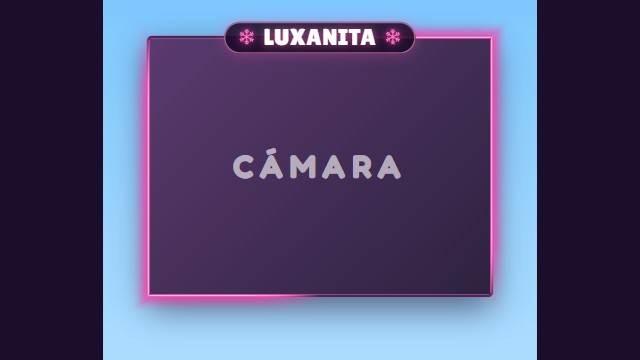
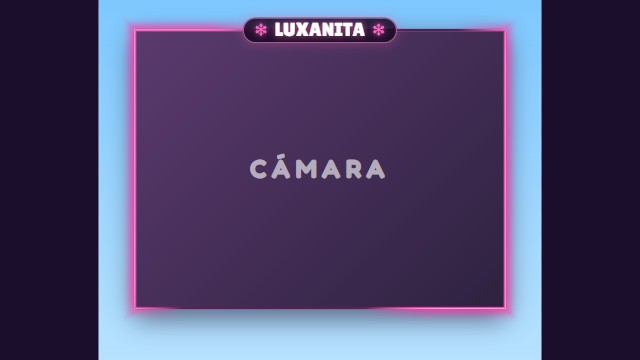
Marco de cámara suelto: mismo tamaño y forma que el de la escena de juego
La cámara del marco suelto pasa a 472x354 (4:3, horizontal) y la fuente a
568x462. Guía, captura y miniatura actualizadas.

Changed region(s): [[0.1562, 0.0, 0.8438, 1.0], [0.3438, 0.3972, 0.625, 0.5194]]

diff --git a/overlay/camara.html b/overlay/camara.html
@@ -7,21 +7,21 @@
 <link rel="stylesheet" href="comun.css">
 <!--
   MARCO DE CÁMARA SUELTO: solo el marco con sus destellos y el nombre, con fondo transparente.
-  - En OBS: fuente "Navegador", archivo local = este archivo, ancho 448 y alto 372.
-  - Pon la cámara debajo, en la posición 48, 40 respecto a esta fuente y con tamaño 352 x 264,
+  - En OBS: fuente "Navegador", archivo local = este archivo, ancho 568 y alto 462 (el marco es igual que el de la cámara de la escena de juego).
+  - Pon la cámara debajo, en la posición 48, 40 respecto a esta fuente y con tamaño 472 x 354,
     agrúpalas y muévelas juntas a donde quieras.
   - Para hacerlo más grande sin que se vea borroso, no lo estires en OBS: multiplica ancho y alto
-    de la fuente por lo mismo (p. ej. 672 x 558 = x1,5) y la cámara igual (528 x 396 en 72, 60).
+    de la fuente por lo mismo (p. ej. 852 x 693 = x1,5) y la cámara igual (708 x 531 en 72, 60).
 -->
 </head>
 <body>
 <script src="comun.js"></script>
 <script>
   montarEscena({
-    lienzo: { w: 448, h: 372 },                 // el marco con margen para su brillo y su sombra
+    lienzo: { w: 568, h: 462 },                 // el marco con margen para su brillo y su sombra
     fondo: false,
     huecos: [
-      { tipo: 'cam', x: 48, y: 40, w: 352, h: 264, nombre: 'Luxanita' }
+      { tipo: 'cam', x: 48, y: 40, w: 472, h: 354, nombre: 'Luxanita' }
     ],
     titulo: false
   });

diff --git a/INSTRUCCIONES.html b/INSTRUCCIONES.html
@@ -587,12 +587,12 @@
           <li>
             <b>Añade el marco</b>
             <p>Fuentes &rarr; <b>"+"</b> &rarr; Navegador &rarr; Archivo local =
-               <code>overlay/camara.html</code>. Ancho <b>448</b> · Alto <b>372</b>.</p>
+               <code>overlay/camara.html</code>. Ancho <b>568</b> · Alto <b>462</b>.</p>
           </li>
           <li>
             <b>Pon la cámara debajo</b>
             <p>En la lista de fuentes, debajo del marco. Con <kbd>Ctrl</kbd>+<kbd>E</kbd> dale
-               tamaño <code>352 x 264</code>.</p>
+               tamaño <code>472 x 354</code>.</p>
           </li>
           <li>
             <b>Cuádrala con el marco</b>
@@ -604,8 +604,8 @@
             <p>Selecciona las dos (<kbd>Ctrl</kbd> + clic) &rarr; clic derecho &rarr;
                "Agrupar elementos seleccionados". Ya puedes moverlas juntas.</p>
             <p>Para hacerlo más grande, no estires el grupo (el marco se vería borroso): multiplica
-               todos los números por lo mismo. Por ejemplo, x1,5: marco <b>672 x 558</b>, cámara
-               <code>528 x 396</code> en <code>72, 60</code>.</p>
+               todos los números por lo mismo. Por ejemplo, x1,5: marco <b>852 x 693</b>, cámara
+               <code>708 x 531</code> en <code>72, 60</code>.</p>
           </li>
         </ol>
       </section>
